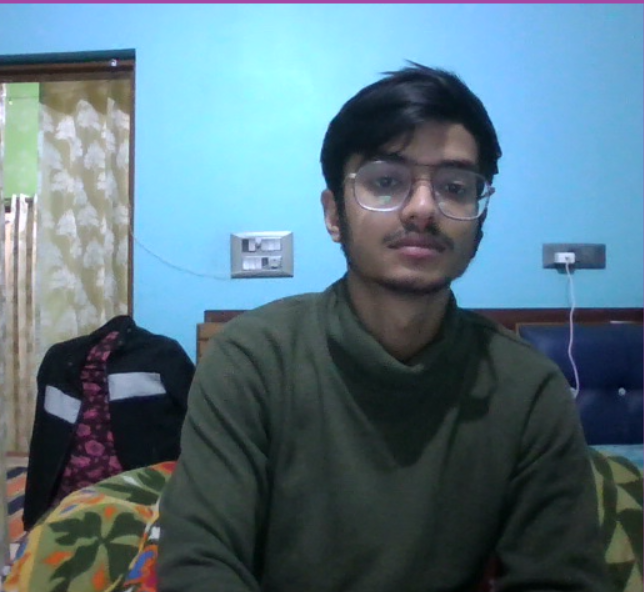
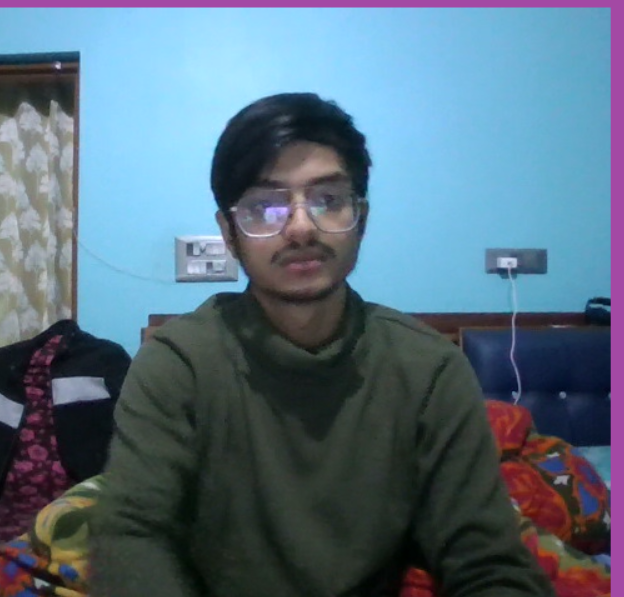
face recognised correctly and frame/rectangle is created. Now its turn to create a suitable database

diff --git a/main.py b/main.py
@@ -1,8 +1,9 @@
 import os
 import pickle
-
+import numpy as np
 import cv2
 import face_recognition
+import cvzone
 
 cap = cv2.VideoCapture(0)
 # setting the HEIGHT of webcam frame
@@ -12,7 +13,7 @@ cap.set(3, 640)
 
 imgBackground = cv2.imread('Resources/images/background_image/background.png')
 
-# ********************************IMPORTING THE MODE IMAGES ************************************************************
+# ************************************** IMPORTING THE MODE IMAGES *****************************************************
 
 folderModePath = "Resources/status"
 modePathList = os.listdir(folderModePath)
@@ -25,52 +26,60 @@ for path in modePathList:
 # to check number of images
 # print(len(imgModeList))
 
-#*************************************** LOAD ENCODING FILES ***********************************************************
+# *************************************** LOAD ENCODING FILES **********************************************************
 
 print("Loading Encode File ......")
-file = open('encodeFile.p','rb')
+file = open('encodeFile.p', 'rb')
 encodeListKnownWithIds = pickle.load(file)
 file.close()
 encodeListKnown, studentsIds = encodeListKnownWithIds
-#print(studentsIds)
+# print(studentsIds)
 print("Encode File Loaded .........")
-
-
 
 # ****************************************** VIDEO CAPTURING ***********************************************************
 while True:
     success, img = cap.read()
 
-    imgS = cv2.resize(img, (0,0), None, 0.25, 0.25)
+    # reducing size by one fourth
+    imgS = cv2.resize(img, (0, 0), None, 0.25, 0.25)
     imgS = cv2.cvtColor(imgS, cv2.COLOR_BGR2RGB)
 
     faceCurFrame = face_recognition.face_locations(imgS)
-    encodeCurFrame = face_recognition.face_encodings(imgS,faceCurFrame)
-
-    for encodeFace, faceLoc in zip(encodeCurFrame, faceCurFrame):
-        matches = face_recognition.compare_faces(encodeListKnown, encodeFace)
-        faceDis = face_recognition.face_distance(encodeListKnown, encodeFace) #lower the face distance better the recognition
-        print("matches", matches)
-        print("faceDis", faceDis)
-
-
+    encodeCurFrame = face_recognition.face_encodings(imgS, faceCurFrame)
 
     # use img = cv2.resize(<height>,<width>)  if resolution is not supported
     imgBackground[162:162 + 480, 55:55 + 640] = img
     imgBackground[44:44 + 633, 808:808 + 414] = imgModeList[1]
-    cv2.imshow("Face Attendance", imgBackground)
+
+    # Mapping current live face frame to its encode values
+    for encodeFace, faceLoc in zip(encodeCurFrame, faceCurFrame):
+        matches = face_recognition.compare_faces(encodeListKnown, encodeFace)
+        faceDis = face_recognition.face_distance(encodeListKnown, encodeFace)
+        # lower the face distance better the recognition
+        print("matches", matches)
+        print("faceDis", faceDis)
+
+        matchIndex = np.argmin(faceDis)
+        print("Match Index", matchIndex)
+
+        # ******** Rectangle over Face *************
+        if matches[matchIndex]:
+            print("Face Detected")
+            print(studentsIds[matchIndex])
+            y1, x2, y2, x1 = faceLoc
+            y1, x2, y2, x1 = y1 * 4, x2 * 4, y2 * 4, x1 * 4
+            bbox = 55 + x1, 162 + y1, x2 - x1, y2 - y1
+            imgBackground = cvzone.cornerRect(imgBackground, bbox, rt=0)
 
     # (Webcam test)
     # ccv2.imshow("webcam", img)
-
+    cv2.imshow("Face Attendance", imgBackground)
     # This line is checking if the ‘q’ key is pressed.
     # The cv2.waitKey(1) function waits for 1 millisecond for a key event on an OpenCV window12.
     # If pressed it breaks the loops and stops capturing
     # Wait indefinitely for a key press
     if cv2.waitKey(1) & 0xFF == ord('q'):
         break
-
-
 
 # Release the capture and destroy all windows
 cap.release()

diff --git a/encodeGenerator.py b/encodeGenerator.py
@@ -15,7 +15,7 @@ for path in pathList:
 print(studentIds)
 
 def findEncodings(imageList):
-    encodeList =[]
+    encodeList = []
     for img in imageList:
         img = cv2.cvtColor(img, cv2.COLOR_BGR2RGB)
         encode = face_recognition.face_encodings(img)[0]
